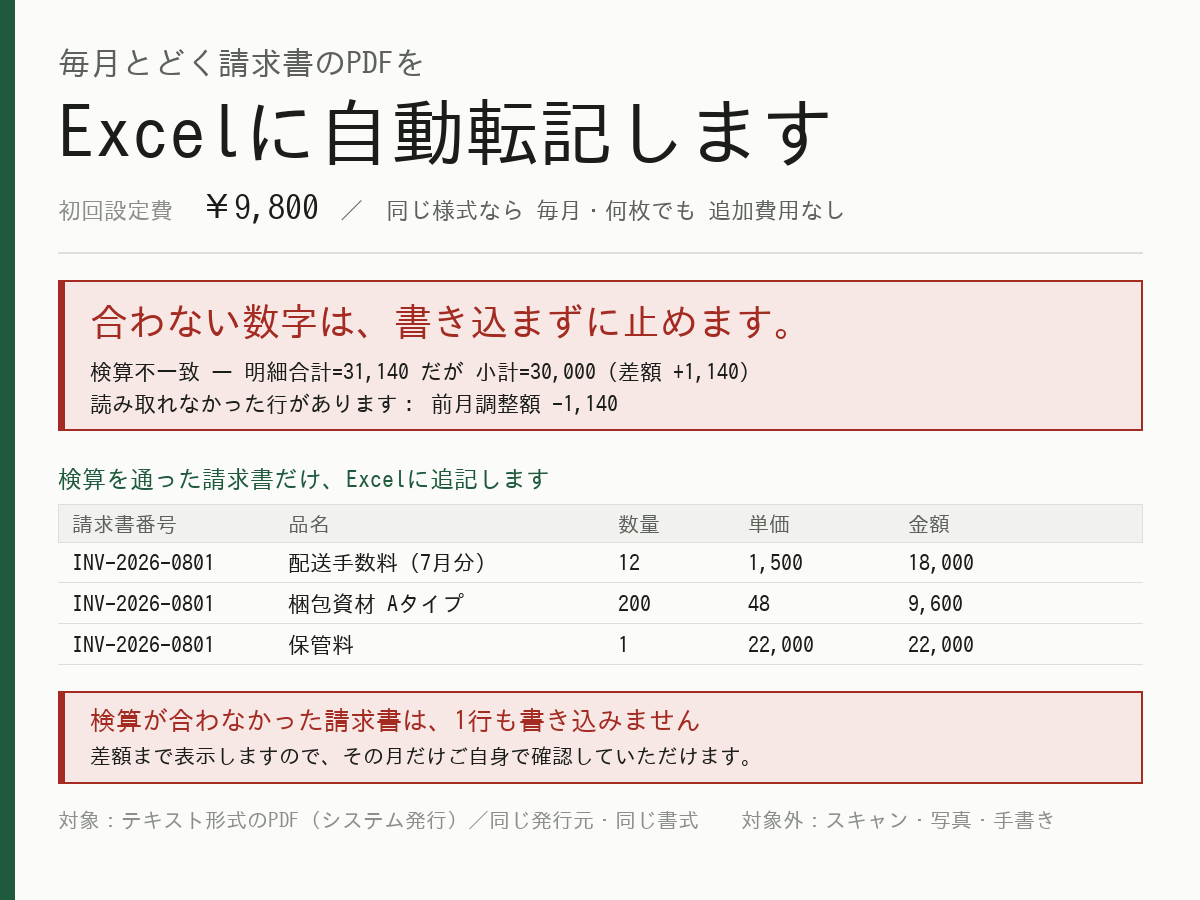
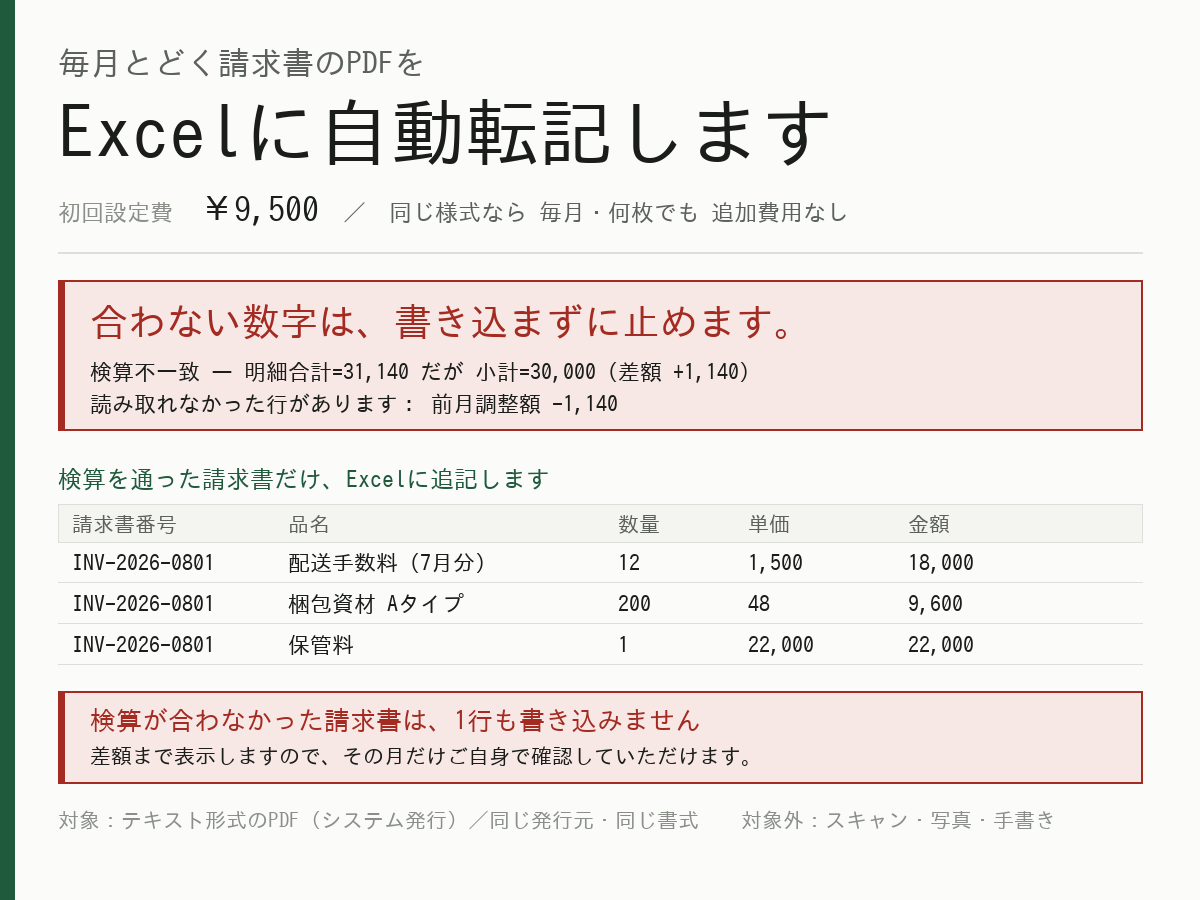
価格を¥9,500に修正し、画像生成をスクリプト化
ココナラの出品が差し戻された。価格は500円区切りでないと通らず、¥9,800は
不可（9800÷500=19.6）。画像に焼き込んだ価格と設定額が食い違ったことが
直接の原因。

¥9,500を採用した。1万円未満を維持でき、値下げ幅も小さく「安かろう」の
信号にならないため。

より本質的な問題として、価格を画像に焼き込んだまま生成手順を残していな
かったため、価格変更のたびに手で作り直す構造になっていた。
research/phase3/build_images.py を追加し、PRICE定数から両方の画像を生成
するようにした。500円区切りでない値は assert で弾く。

原稿は coconala-fields.json を単一の出所とし、そこから各テキストを再生成
する形に統一。build_kit.py の価格欄にも差し戻しの経緯を注記した。
Phase 1/2 のドキュメントは履歴なので変更していない。

プラットフォーム仕様として、価格の500円区切りと字数上限（サービス内容
1000字・購入にあたってのお願い500字）を引継ぎ書の一次情報に追加した。
実測ログには差し戻しと再申請の経緯を記録した。

Claude-Session: https://claude.ai/code/session_01Vffkt6GFp2ntEL4dMMFujJ

Changed region(s): [[0.3083, 0.2178, 0.7092, 0.2489], [0.0308, 0.2178, 0.2775, 0.2489]]

diff --git a/coconala-kit.html b/coconala-kit.html
@@ -66,7 +66,7 @@ button.copy{width:100%}.bhead{flex-wrap:wrap}.count{margin-left:0}}
 <p class="hint">上から順に埋めていけば終わります。</p>
 <div class="field"><div class="fmeta"><span class="flabel">タイトル</span><span class="fnote">ココナラは「〜します」で終わる形式</span></div><div class="frow"><pre class="ftext" id="f0">請求書PDFのExcel転記を自動化します</pre><button class="copy" data-target="f0">コピー</button></div></div>
 <div class="field"><div class="fmeta"><span class="flabel">キャッチコピー</span><span class="fnote">タイトルの下に出る一文</span></div><div class="frow"><pre class="ftext" id="f1">合わない数字は転記せず停止／同じ様式を毎月処理する方へ</pre><button class="copy" data-target="f1">コピー</button></div></div>
-<div class="field"><div class="fmeta"><span class="flabel">価格</span><span class="fnote">「1フォーマット」だと1枚あたりと誤読されるため表記を変更済み</span></div><div class="frow"><pre class="ftext" id="f2">9800</pre><button class="copy" data-target="f2">コピー</button></div></div>
+<div class="field"><div class="fmeta"><span class="flabel">価格</span><span class="fnote">ココナラは500円区切り。9,800では出品が弾かれた（2026/8/31）</span></div><div class="frow"><pre class="ftext" id="f2">9500</pre><button class="copy" data-target="f2">コピー</button></div></div>
 <div class="field"><div class="fmeta"><span class="flabel">お届け日数</span><span class="fnote">実際は3日で出せても、約束は7日にしておく</span></div><div class="frow"><pre class="ftext" id="f3">7</pre><button class="copy" data-target="f3">コピー</button></div></div>
 <div class="field"><div class="fmeta"><span class="flabel">タグ</span><span class="fnote">「請求書」「PDF」「転記」は必ず入れる。ここが薄い領域</span></div><div class="frow"><pre class="ftext" id="f4">Excel 請求書 PDF 転記 自動化 業務効率化 VBA GAS スプレッドシート 経理 データ入力 Python</pre><button class="copy" data-target="f4">コピー</button></div></div>
 
@@ -99,7 +99,7 @@ button.copy{width:100%}.bhead{flex-wrap:wrap}.count{margin-left:0}}
 黙って1行落ちた台帳より、止まった方が安全だと考えています。
 
 ■料金は「枚数」ではありません
-9,800円は請求書1枚あたりではなく、仕組みを1つお作りする費用です。
+9,500円は請求書1枚あたりではなく、仕組みを1つお作りする費用です。
 一度お作りすれば、同じ書式の請求書は何枚でも、毎月くり返しお使いいただけます（追加費用なし）。
 追加費用がかかるのは、別の発行元・別の書式を増やす場合だけです。
 
@@ -139,7 +139,7 @@ button.copy{width:100%}.bhead{flex-wrap:wrap}.count{margin-left:0}}
 <h2>よくある質問</h2>
 <p class="hint">1件ずつ登録します。反論を先に潰す欄です。特にQ1（枚数）とQ6（不安）は、
 書いておかないと問い合わせすら来ずに離脱されます。</p>
-<div class="block qa"><div class="bhead"><b>Q1. 請求書が毎月10枚あります。料金は10倍になりますか？</b><button class="copy" data-target="a1">回答をコピー</button></div><pre class="btext" id="a1">いいえ。9,800円は仕組みを1つお作りする費用です。同じ書式であれば、枚数は関係ありません。毎月くり返しお使いいただけます。</pre></div>
+<div class="block qa"><div class="bhead"><b>Q1. 請求書が毎月10枚あります。料金は10倍になりますか？</b><button class="copy" data-target="a1">回答をコピー</button></div><pre class="btext" id="a1">いいえ。9,500円は仕組みを1つお作りする費用です。同じ書式であれば、枚数は関係ありません。毎月くり返しお使いいただけます。</pre></div>
 <div class="block qa"><div class="bhead"><b>Q2. スキャンした請求書でも対応できますか？</b><button class="copy" data-target="a2">回答をコピー</button></div><pre class="btext" id="a2">申し訳ありません、現在はテキスト形式のPDF（システムが発行したもの）のみ対応しています。画像から文字を読む処理は100%にできず、誤読を検算できないためです。発行元からデータ形式のPDFを受け取れる場合はご相談ください。</pre></div>
 <div class="block qa"><div class="bhead"><b>Q3. 請求書の項目が毎月少し変わります。大丈夫ですか？</b><button class="copy" data-target="a3">回答をコピー</button></div><pre class="btext" id="a3">新しい項目が増えた、行数が変わった、という程度であればそのまま処理できます。行の作りが違う項目（数量や単価のない調整額など）が現れた場合は、止めてその行をお知らせします。黙って1行落とすことはしません。</pre></div>
 <div class="block qa"><div class="bhead"><b>Q4. Excelではなくスプレッドシートを使っています。</b><button class="copy" data-target="a4">回答をコピー</button></div><pre class="btext" id="a4">対応できます。貼り付け1回で終わる形でお渡しします。ご希望をお知らせください。</pre></div>

diff --git a/research/phase3/build_images.py b/research/phase3/build_images.py
@@ -1,0 +1,166 @@
+"""出品用の画像を生成する。
+
+価格を画像に焼き込んでいるため、価格が変わると画像も作り直しになる。
+2026/8/31、¥9,800 で出品が弾かれた（ココナラは500円区切り）ときに、
+画像を手で作り直す羽目になったので、価格を定数1つにまとめた。
+
+    PRICE を直して実行するだけで、両方の画像が揃う。
+"""
+from __future__ import annotations
+
+import json
+from pathlib import Path
+
+from PIL import Image, ImageDraw, ImageFont
+
+HERE = Path(__file__).parent
+ROOT = HERE.parent.parent
+JP = "/usr/share/fonts/truetype/fonts-japanese-gothic.ttf"
+
+# ココナラの価格は500円区切り。ここを直したら build_kit.py も再実行すること。
+PRICE = 9500
+assert PRICE % 500 == 0, f"ココナラの価格は500円区切り: {PRICE}"
+YEN = f"¥{PRICE:,}"
+
+PAPER, INK, MID, FAINT = "#FBFBF9", "#1A1D1A", "#5C625B", "#8A8F88"
+RULE, RULE2 = "#DDE0DA", "#BFC4BC"
+OK, OK_BG, NG, NG_BG, PANEL = "#1F5A3D", "#E7F0E9", "#A32B21", "#F7E8E6", "#F4F5F1"
+
+f = lambda s: ImageFont.truetype(JP, s)
+
+
+def thumbnail() -> None:
+    """一覧に出る1枚目。1200×900。"""
+    W, H, M = 1200, 900, 58
+    img = Image.new("RGB", (W, H), PAPER)
+    d = ImageDraw.Draw(img)
+    d.rectangle([0, 0, 14, H], fill=OK)
+
+    d.text((M, 46), "毎月とどく請求書のPDFを", font=f(32), fill=MID)
+    d.text((M, 94), "Excelに自動転記します", font=f(74), fill=INK)
+    d.text((M, 200), "初回設定費", font=f(23), fill=FAINT)
+    x = M + 142
+    d.text((x, 192), YEN, font=f(34), fill=INK)
+    x += d.textlength(YEN, font=f(34)) + 24
+    d.text((x, 200), "／  同じ様式なら 毎月・何枚でも 追加費用なし", font=f(23), fill=MID)
+    d.line([(M, 252), (W - M, 252)], fill=RULE, width=2)
+
+    y = 280
+    d.rectangle([M, y, W - M, y + 150], fill=NG_BG, outline=NG, width=2)
+    d.rectangle([M, y, M + 6, y + 150], fill=NG)
+    d.text((M + 32, y + 22), "合わない数字は、書き込まずに止めます。", font=f(38), fill=NG)
+    d.text((M + 32, y + 80), "検算不一致 — 明細合計=31,140 だが 小計=30,000（差額 +1,140）", font=f(22), fill=INK)
+    d.text((M + 32, y + 112), "読み取れなかった行があります： 前月調整額 -1,140", font=f(22), fill=INK)
+
+    y = 466
+    d.text((M, y), "検算を通った請求書だけ、Excelに追記します", font=f(24), fill=OK)
+    y += 38
+    xs = [M + 14, M + 230, M + 560, M + 690, M + 850]
+    d.rectangle([M, y, W - M, y + 38], fill=PANEL, outline=RULE)
+    for c, cx in zip(["請求書番号", "品名", "数量", "単価", "金額"], xs):
+        d.text((cx, y + 9), c, font=f(21), fill=MID)
+    y += 38
+    for r in [("INV-2026-0801", "配送手数料（7月分）", "12", "1,500", "18,000"),
+              ("INV-2026-0801", "梱包資材 Aタイプ", "200", "48", "9,600"),
+              ("INV-2026-0801", "保管料", "1", "22,000", "22,000")]:
+        for v, cx in zip(r, xs):
+            d.text((cx, y + 9), v, font=f(22), fill=INK)
+        d.line([(M, y + 40), (W - M, y + 40)], fill=RULE)
+        y += 41
+
+    y += 26
+    d.rectangle([M, y, W - M, y + 92], fill=NG_BG, outline=NG, width=2)
+    d.rectangle([M, y, M + 6, y + 92], fill=NG)
+    d.text((M + 32, y + 16), "検算が合わなかった請求書は、1行も書き込みません", font=f(26), fill=NG)
+    d.text((M + 32, y + 54), "差額まで表示しますので、その月だけご自身で確認していただけます。", font=f(21), fill=INK)
+    y += 118
+    d.text((M, y), "対象：テキスト形式のPDF（システム発行）／同じ発行元・同じ書式　　"
+                   "対象外：スキャン・写真・手書き", font=f(21), fill=FAINT)
+    img.save(ROOT / "thumbnail-coconala.png")
+
+
+def portfolio() -> None:
+    """出品ページ内に追加する実行結果。すべてダミーデータ。"""
+    W, M = 1240, 56
+    img = Image.new("RGB", (W, 1620), PAPER)
+    d = ImageDraw.Draw(img)
+    y = 52
+
+    d.text((M, y), "請求書PDF → Excel／スプレッドシート 転記", font=f(38), fill=INK); y += 54
+    d.text((M, y), "毎月くり返す手作業を自動化します。合わない数字は、書き込まずに止めます。",
+           font=f(19), fill=MID); y += 34
+    d.text((M, y), "※ 以下はすべてダミーデータでの実行結果です（実際のお客様データは使用していません）",
+           font=f(16), fill=FAINT); y += 40
+    d.line([(M, y), (W - M, y)], fill=RULE2, width=2); y += 40
+
+    def card(tag, tagfg, accent, heading, lines, extra):
+        nonlocal y
+        h = 96 + len(lines) * 30 + (len(extra) * 28 + 22 if extra else 0)
+        d.rectangle([M, y, W - M, y + h], fill=PANEL, outline=RULE)
+        d.rectangle([M, y, M + 5, y + h], fill=accent)
+        yy = y + 22
+        tw = d.textlength(tag, font=f(16))
+        d.rectangle([M + 24, yy, M + 24 + tw + 22, yy + 28],
+                    fill=OK_BG if accent == OK else NG_BG, outline=accent)
+        d.text((M + 35, yy + 4), tag, font=f(16), fill=tagfg)
+        d.text((M + 24 + tw + 40, yy + 2), heading, font=f(24), fill=INK)
+        yy += 48
+        for ln, col in lines:
+            d.text((M + 30, yy), ln, font=f(17), fill=col); yy += 30
+        yy += 10
+        for ln, col in extra:
+            d.text((M + 30, yy), ln, font=f(19), fill=col); yy += 28
+        y += h + 26
+
+    card("正常", OK, OK, "3件を読み取り、Excelに転記",
+         [("OK   INV-2026-0801.pdf : 合計 ¥54,560（明細3行）", INK),
+          ("OK   INV-2026-0802.pdf : 合計 ¥23,430（明細2行）", INK),
+          ("OK   INV-2026-0803.pdf : 合計 ¥68,860（明細4行）", INK),
+          ("", INK),
+          ("3件を 台帳.xlsx に追記しました", OK)],
+         [("すべての行で 数量×単価=金額 / 明細合計=小計 / 小計+税=合計 を確認済み", MID)])
+
+    card("停止", NG, NG, "書式が変わった月を検知して、書き込まない",
+         [("要確認 INV-2026-0902.pdf:", INK),
+          ("  検算不一致 — 明細合計=31,140 だが 小計=30,000（差額 +1,140）", NG),
+          ("  読み取れなかった行があります: 前月調整額 -1,140", NG),
+          ("", INK),
+          ("転記できた請求書はありません。出力は変更していません。", MID)],
+         [("先月まで無かった「前月調整額」を検知し、行の名前と差額を表示。", MID),
+          ("黙って1行落ちた表より、止まった方が安全だと考えています。", INK)])
+
+    card("対応範囲", NG, NG, "いま対応しているのは、テキスト形式のPDFです",
+         [("要確認 SCANNED-sample.pdf:", INK),
+          ("  テキスト層が見つかりません。スキャン・写真・手書きの請求書は", NG),
+          ("  このツールの対象外です（誤認識を検算できないため）。", NG)],
+         [("スキャン画像・写真・手書きは、誤読を検算できないため対象外です。", MID),
+          ("発行元からデータ形式のPDFを受け取れる場合は、ご相談ください。", INK)])
+
+    d.text((M, y), "転記結果（そのままスプレッドシートに貼り付けられます）", font=f(24), fill=INK); y += 42
+    xs = [M + 16, M + 215, M + 375, M + 660, M + 750, M + 860, M + 990]
+    d.rectangle([M, y, W - M, y + 38], fill=PANEL, outline=RULE)
+    for c, cx in zip(["請求書番号", "発行日", "品名", "数量", "単価", "金額", "合計金額"], xs):
+        d.text((cx, y + 9), c, font=f(16), fill=MID)
+    y += 38
+    for r in [["INV-2026-0801", "2026年8月5日", "配送手数料（7月分）", "12", "1,500", "18,000", "54,560"],
+              ["INV-2026-0801", "", "梱包資材 Aタイプ", "200", "48", "9,600", ""],
+              ["INV-2026-0801", "", "保管料", "1", "22,000", "22,000", ""],
+              ["INV-2026-0802", "2026年8月5日", "配送手数料（7月分）", "8", "1,500", "12,000", "23,430"]]:
+        d.line([(M, y + 34), (W - M, y + 34)], fill=RULE)
+        for v, cx in zip(r, xs):
+            d.text((cx, y + 8), v, font=f(19), fill=INK)
+        y += 35
+
+    y += 34
+    d.line([(M, y), (W - M, y)], fill=RULE2, width=2); y += 24
+    d.text((M, y), f"初回設定費 {YEN}  ・  同じ様式なら毎月・何枚でも追加費用なし  ・  納期7日",
+           font=f(16), fill=MID); y += 26
+    d.text((M, y), "お預かりした書類は作業完了後に削除します。取引先名・金額を第三者に開示することはありません。",
+           font=f(16), fill=FAINT); y += 30
+    img.crop((0, 0, W, y + 24)).save(ROOT / "portfolio-invoice-tool.png")
+
+
+if __name__ == "__main__":
+    thumbnail()
+    portfolio()
+    print(f"画像を生成: 価格 {YEN}（500円区切り: OK）")

diff --git a/research/phase3/build_kit.py b/research/phase3/build_kit.py
@@ -19,7 +19,7 @@ LIMITS = {"service": 1000, "please": 500}
 FIELDS = [
     ("タイトル", "ココナラは「〜します」で終わる形式", "請求書PDFのExcel転記を自動化します"),
     ("キャッチコピー", "タイトルの下に出る一文", "合わない数字は転記せず停止／同じ様式を毎月処理する方へ"),
-    ("価格", "「1フォーマット」だと1枚あたりと誤読されるため表記を変更済み", "9800"),
+    ("価格", "ココナラは500円区切り。9,800では出品が弾かれた（2026/8/31）", "9500"),
     ("お届け日数", "実際は3日で出せても、約束は7日にしておく", "7"),
     ("タグ", "「請求書」「PDF」「転記」は必ず入れる。ここが薄い領域",
      "Excel 請求書 PDF 転記 自動化 業務効率化 VBA GAS スプレッドシート 経理 データ入力 Python"),

diff --git a/research/phase3/07-coconala-listing.md b/research/phase3/07-coconala-listing.md
@@ -26,7 +26,7 @@
 |---|---|
 | **タイトル** | 請求書PDFのExcel転記を自動化します |
 | **キャッチコピー** | 合わない数字は転記せず停止／同じ様式を毎月処理する方へ |
-| **価格** | **初回設定費 ¥9,800**（「1フォーマット ¥9,800」は「1枚あたり」と誤読されるため変更） |
+| **価格** | **初回設定費 ¥9,500**（「1フォーマット ¥9,500」は「1枚あたり」と誤読されるため変更） |
 | **お届け日数** | **7日** |
 | カテゴリ | IT・プログラミング・開発 → Excelマクロ・VBA作成（`categories/230/65`） |
 
@@ -36,22 +36,22 @@
 |---|---|
 | ココナラの同種出品（実測） | ¥5,000／¥15,000／¥23,000／¥25,000 |
 | クラウドワークスの小規模自動化案件（実測） | ¥5,000〜¥10,000 |
-| ¥9,800 | **中の下。安売りせず、最初の1件が出る水準** |
+| ¥9,500 | **中の下。安売りせず、最初の1件が出る水準** |
 
 **下げない。** 実績0で価格まで下げると「安かろう」の信号になる。
 安さではなく**「無料で1枚試せる」**で勝負する（下記 §3）。
 
-### 「10枚でも9,800円か」に答える（外部レビューで指摘された穴）
+### 「10枚でも9,500円か」に答える（外部レビューで指摘された穴）
 
 売っているのは**転記作業1回ではなく、仕組みを1つ作ること**である。
 
 | | |
 |---|---|
-| ¥9,800に含まれる | 1つの発行元・1つの書式に対する仕組みの作成 |
+| ¥9,500に含まれる | 1つの発行元・1つの書式に対する仕組みの作成 |
 | **作ったあと** | **その書式の請求書は、何枚でも・毎月何度でも処理できる（追加費用なし）** |
 | 追加費用が要る場合 | **別の発行元・別の書式**を増やすとき（1つにつき追加） |
 
-この区別を出品文に明記しないと、「1枚9,800円」と誤読されて取りこぼす。
+この区別を出品文に明記しないと、「1枚9,500円」と誤読されて取りこぼす。
 
 ### 納期を7日にする理由
 実行仕様では5日だったが、**初回は余裕を持つ**。
@@ -109,7 +109,7 @@
 
 ■ 料金について（枚数は関係ありません）
 
-9,800円は「請求書1枚あたり」ではなく、
+9,500円は「請求書1枚あたり」ではなく、
 「仕組みを1つお作りする費用」です。
 
 一度お作りすれば、

diff --git a/research/phase3/08-tracking.md b/research/phase3/08-tracking.md
@@ -9,16 +9,17 @@
 | | |
 |---|---|
 | URL | https://coconala.com/services/4375928 |
-| 公開日 | **2026年8月30日** |
+| 公開日 | 8/30に申請 → **価格が500円区切りでなく差し戻し**（¥9,800）→ **¥9,500に修正して再申請** |
 | タイトル | 請求書PDFのExcel転記を自動化します |
-| 価格 | ¥9,800（初回設定費） |
+| 価格 | ¥9,500（初回設定費） |
 | 納期 | 7日 |
 
 ### 記録するもの
 
 | 日付 | 閲覧数 | お気に入り | 問い合わせ | 購入 | メモ |
 |---|---|---|---|---|---|
-| 8/30 | 0 | 0 | 0 | 0 | 公開 |
+| 8/30 | — | — | — | — | 申請 → 差し戻し（価格が500円区切り違反） |
+| 8/31 | 0 | 0 | 0 | 0 | ¥9,500に修正して再申請 |
 | | | | | | |
 
 ※ 閲覧数は「サービス分析」で確認。自分の閲覧は除外される。
